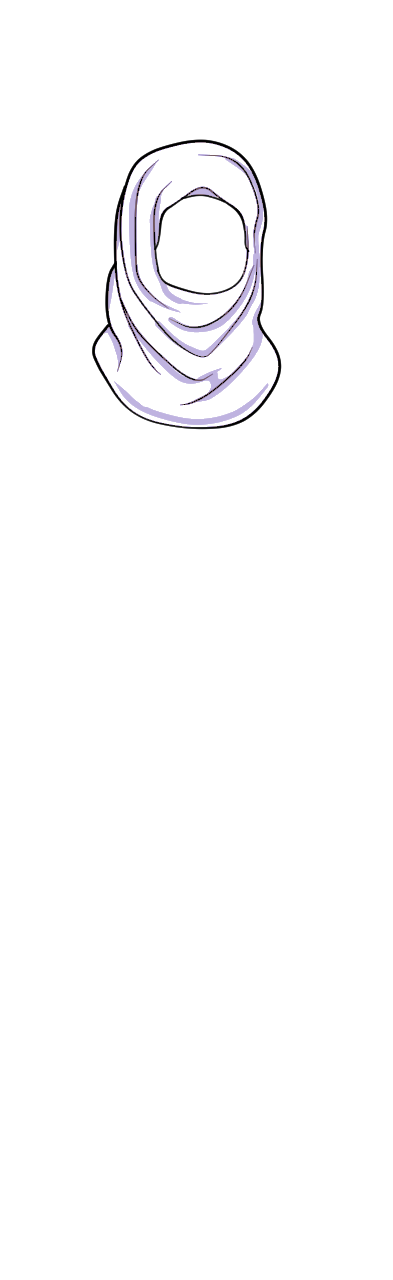
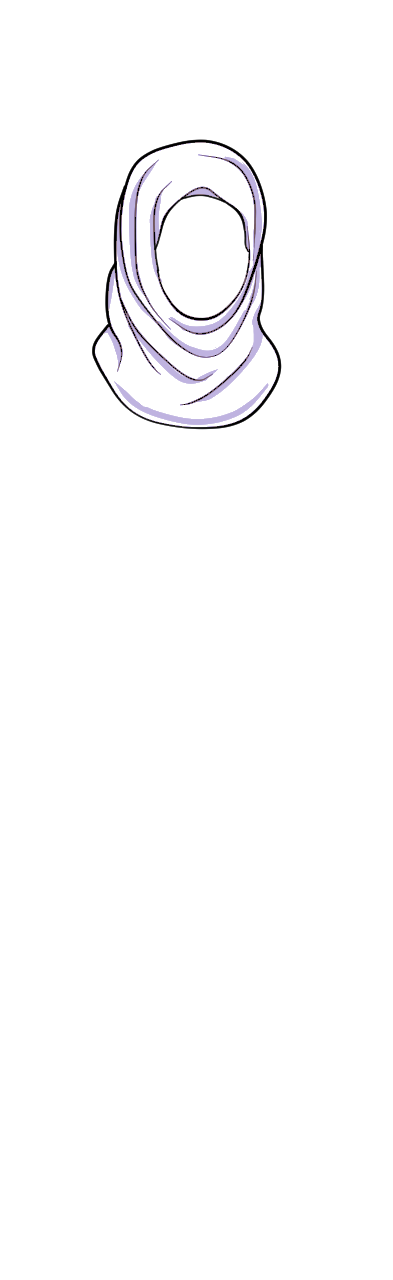
hijab

diff --git a/code/generated.js b/code/generated.js
@@ -32,7 +32,7 @@ const sleeve_list = ["top_sleeves","overshirt_sleeves","coat_sleeves",];
 const accessory_list = ["eyewear","neckwear","earrings","gloves","hat",];
 const defining_list = ["eyewear","neckwear","earrings","gloves","wheelchair","bottom","top","overshirt","coat","socks","shoes","top_sleeves","overshirt_sleeves","coat_sleeves","body","nose","mouth","eyebrows","complexion","ears","cheeks","eyes","fringe","facial_hair","head","chest",];
 
-const hat_back_list_d = [["none","bandanna","beanie","bonnet","bowler","broad hat","cap","fedora","top hat","witch hat","top hat","scarf","turban",],["none","bandanna","beanie","bonnet","bowler","broad hat","cap","fedora","top hat","witch hat","top hat","scarf","turban",],[],];
+const hat_back_list_d = [["none","bandanna","beanie","bonnet","bowler","broad hat","cap","fedora","top hat","witch hat","top hat","scarf","turban","hijab",],["none","bandanna","beanie","bonnet","bowler","broad hat","cap","fedora","top hat","witch hat","top hat","scarf","turban","hijab",],[],];
 const hat_back_dec_list_d = [["scarf",],["scarf",],[],];
 const hair_back_list_d = [["none","balding","buzzcut","straight short","curly short","wavy short","straight side","swept back","shaggy short","tight curls short","tight curls medium","shaggy medium","curly bob","wavy bob","straight bob","locs bob","half up medium wavy","straight high pony","straight low pony","curly pony","bun","curly bun","wavy bun","locs bun","twin braids","straight long","wavy long","curly long","long locs","curly flowing","straight flowing","straight up","curly up","locs up",],["none","balding","buzzcut","straight short","curly short","wavy short","straight side","swept back","shaggy short","tight curls short","tight curls medium","shaggy medium","curly bob","wavy bob","straight bob","locs bob","half up medium wavy","straight high pony","straight low pony","curly pony","bun","curly bun","wavy bun","locs bun","twin braids","straight long","wavy long","curly long","long locs","curly flowing","straight flowing","straight up","curly up","locs up",],[],];
 const coat_back_list_d = [["none","medium cloak","wrap","overcoat","short jacket","dress jacket","business jacket","buttoned jacket","cool jacket",],["none","medium cloak","wrap","overcoat","short jacket","dress jacket","business jacket","buttoned jacket","cool jacket",],[],];

diff --git a/code/image_functions.js b/code/image_functions.js
@@ -368,6 +368,8 @@ function draw_object(obj, index, colour, ctx, sourceX, sourceY, xpos, ypos,width
         if (new_width >obj.crop[0]+obj.crop[2])
             off_ctx.clearRect(obj.crop[0]+obj.crop[2], 0, parseInt(obj.scale*width-(obj.crop[0]+obj.crop[2])), new_height);       
       
+        //removing masks
+        
         ctx.drawImage(off_canvas,sourceX,sourceY,new_width,new_height, new_xpos, new_ypos,new_width,new_height);
     }
     if (obj.overlay_image.src!=""){//not coloured or anything just displayed straight

diff --git a/code/generate_images.py b/code/generate_images.py
@@ -309,7 +309,7 @@ defining_list = remove_dups(accessory_list+ outfit_list+sleeve_list+skin_list_de
 no_chest_coat_list = [ "robe","robe hood",  "medium cloak", "medium cloak hood", "long cloak", "long cloak hood","wrap"] #clothes where the chest doesn't show
 no_fill_list = ["mouth"] #lined items with no coloured fill
 
-hat_back_list = ["none","bandanna","beanie","bonnet","bowler","broad hat","cap","fedora","top hat","witch hat","top hat","scarf","turban"]
+hat_back_list = ["none","bandanna","beanie","bonnet","bowler","broad hat","cap","fedora","top hat","witch hat","top hat","scarf","turban","hijab"]
 hat_back_list_d = default_list(hat_back_list)
 coat_back_list = ["none","medium cloak","wrap","overcoat","short jacket","dress jacket","business jacket","buttoned jacket","cool jacket"] 
 coat_back_list_d = default_list(coat_back_list) 
